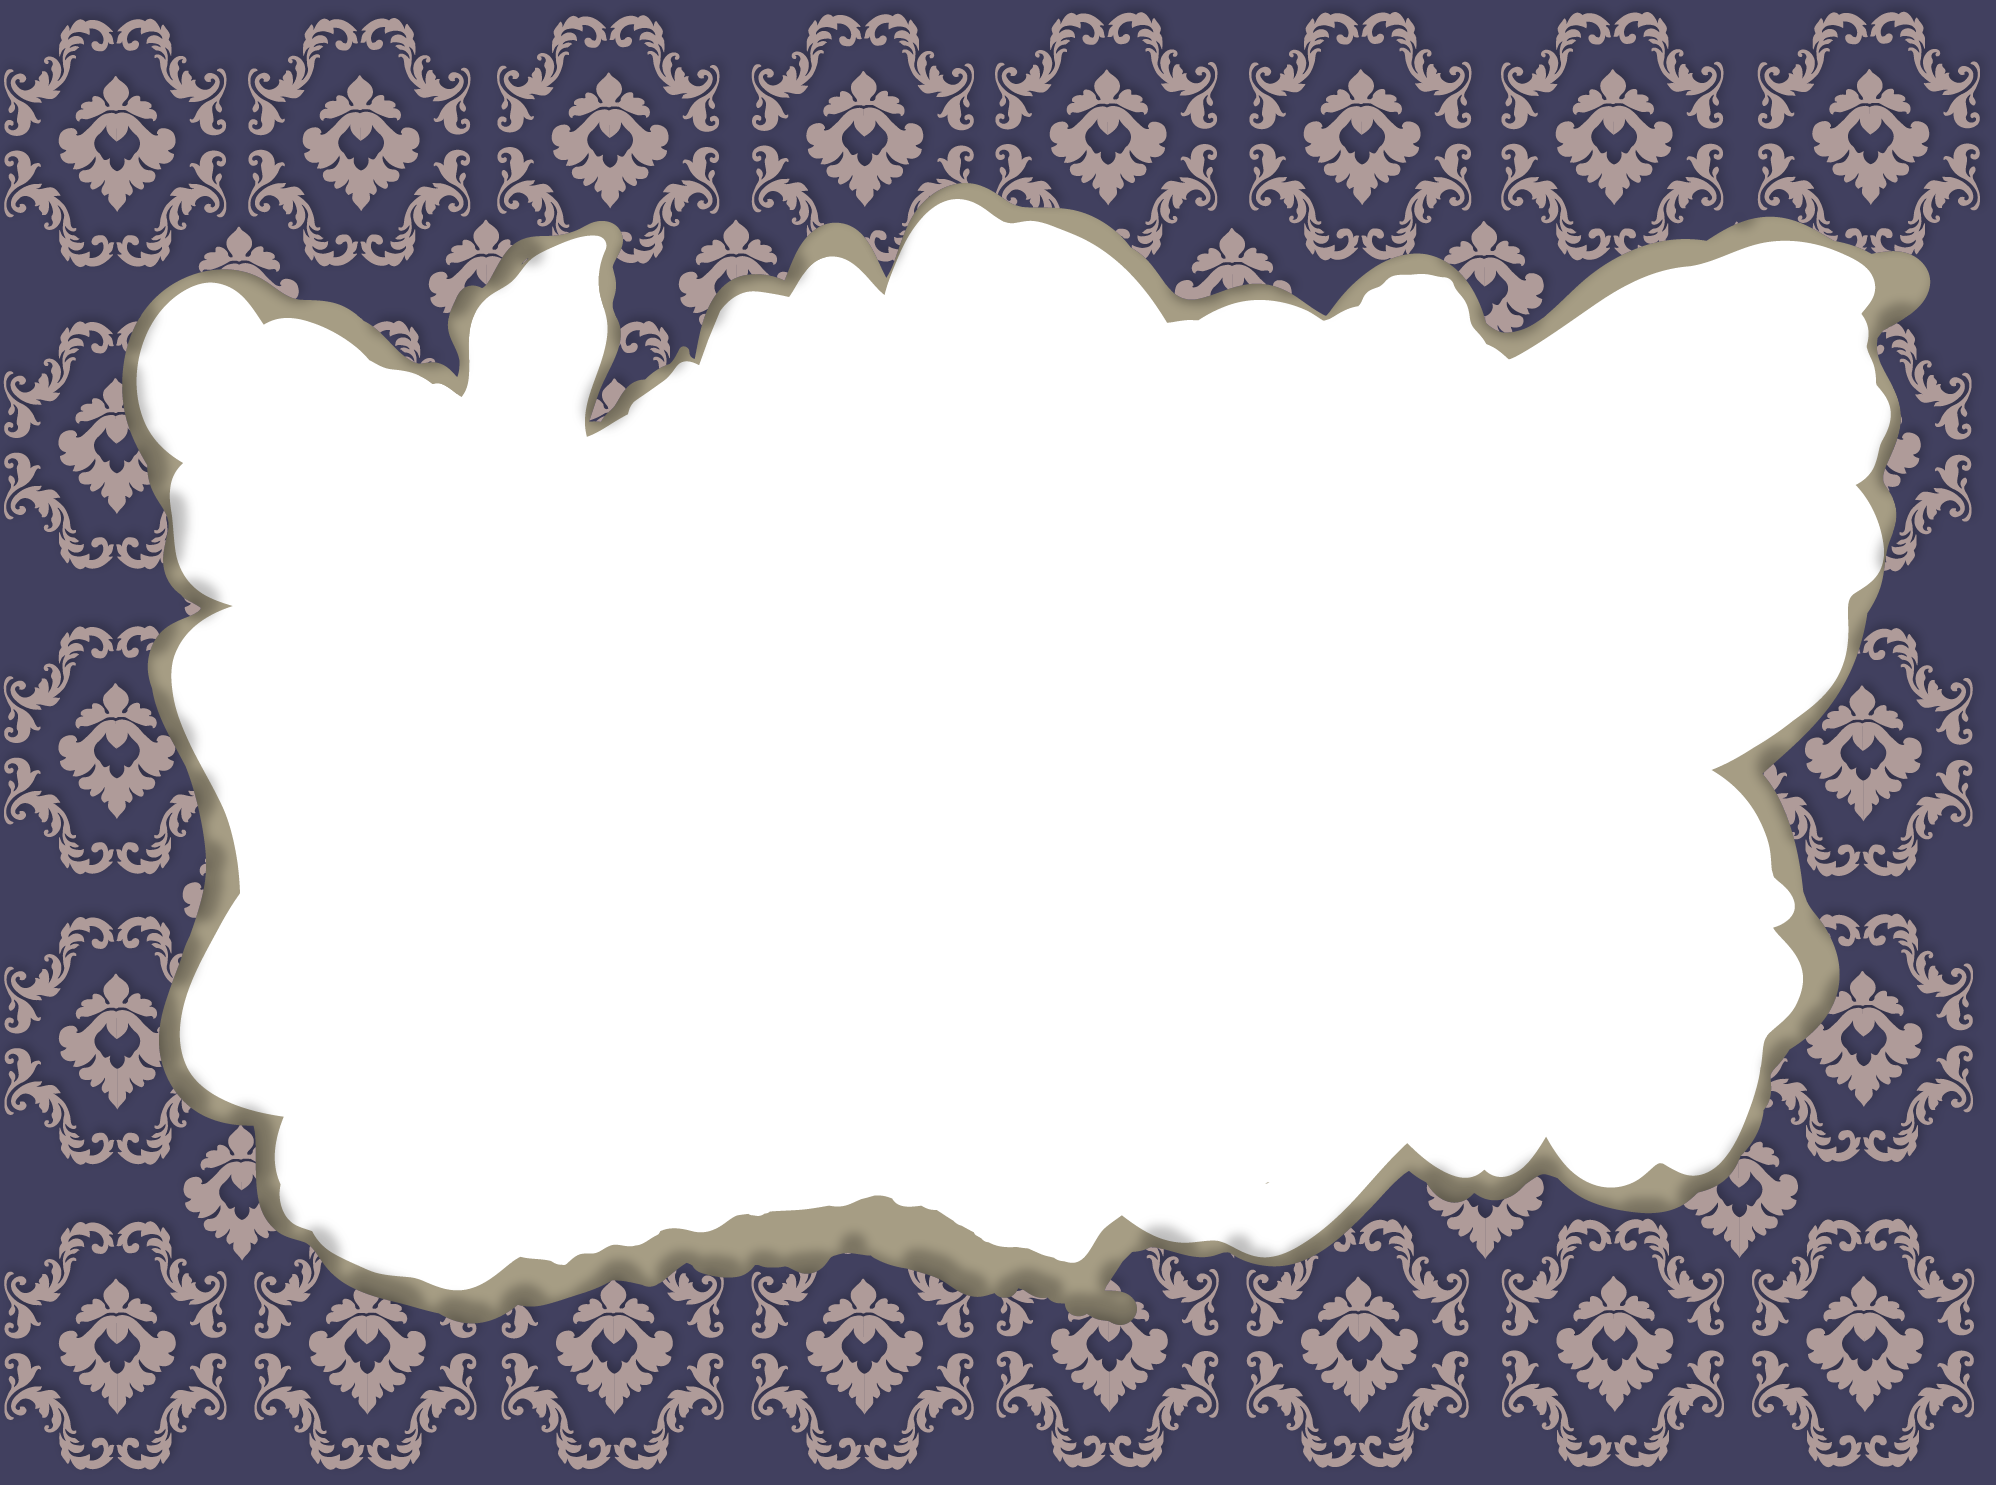
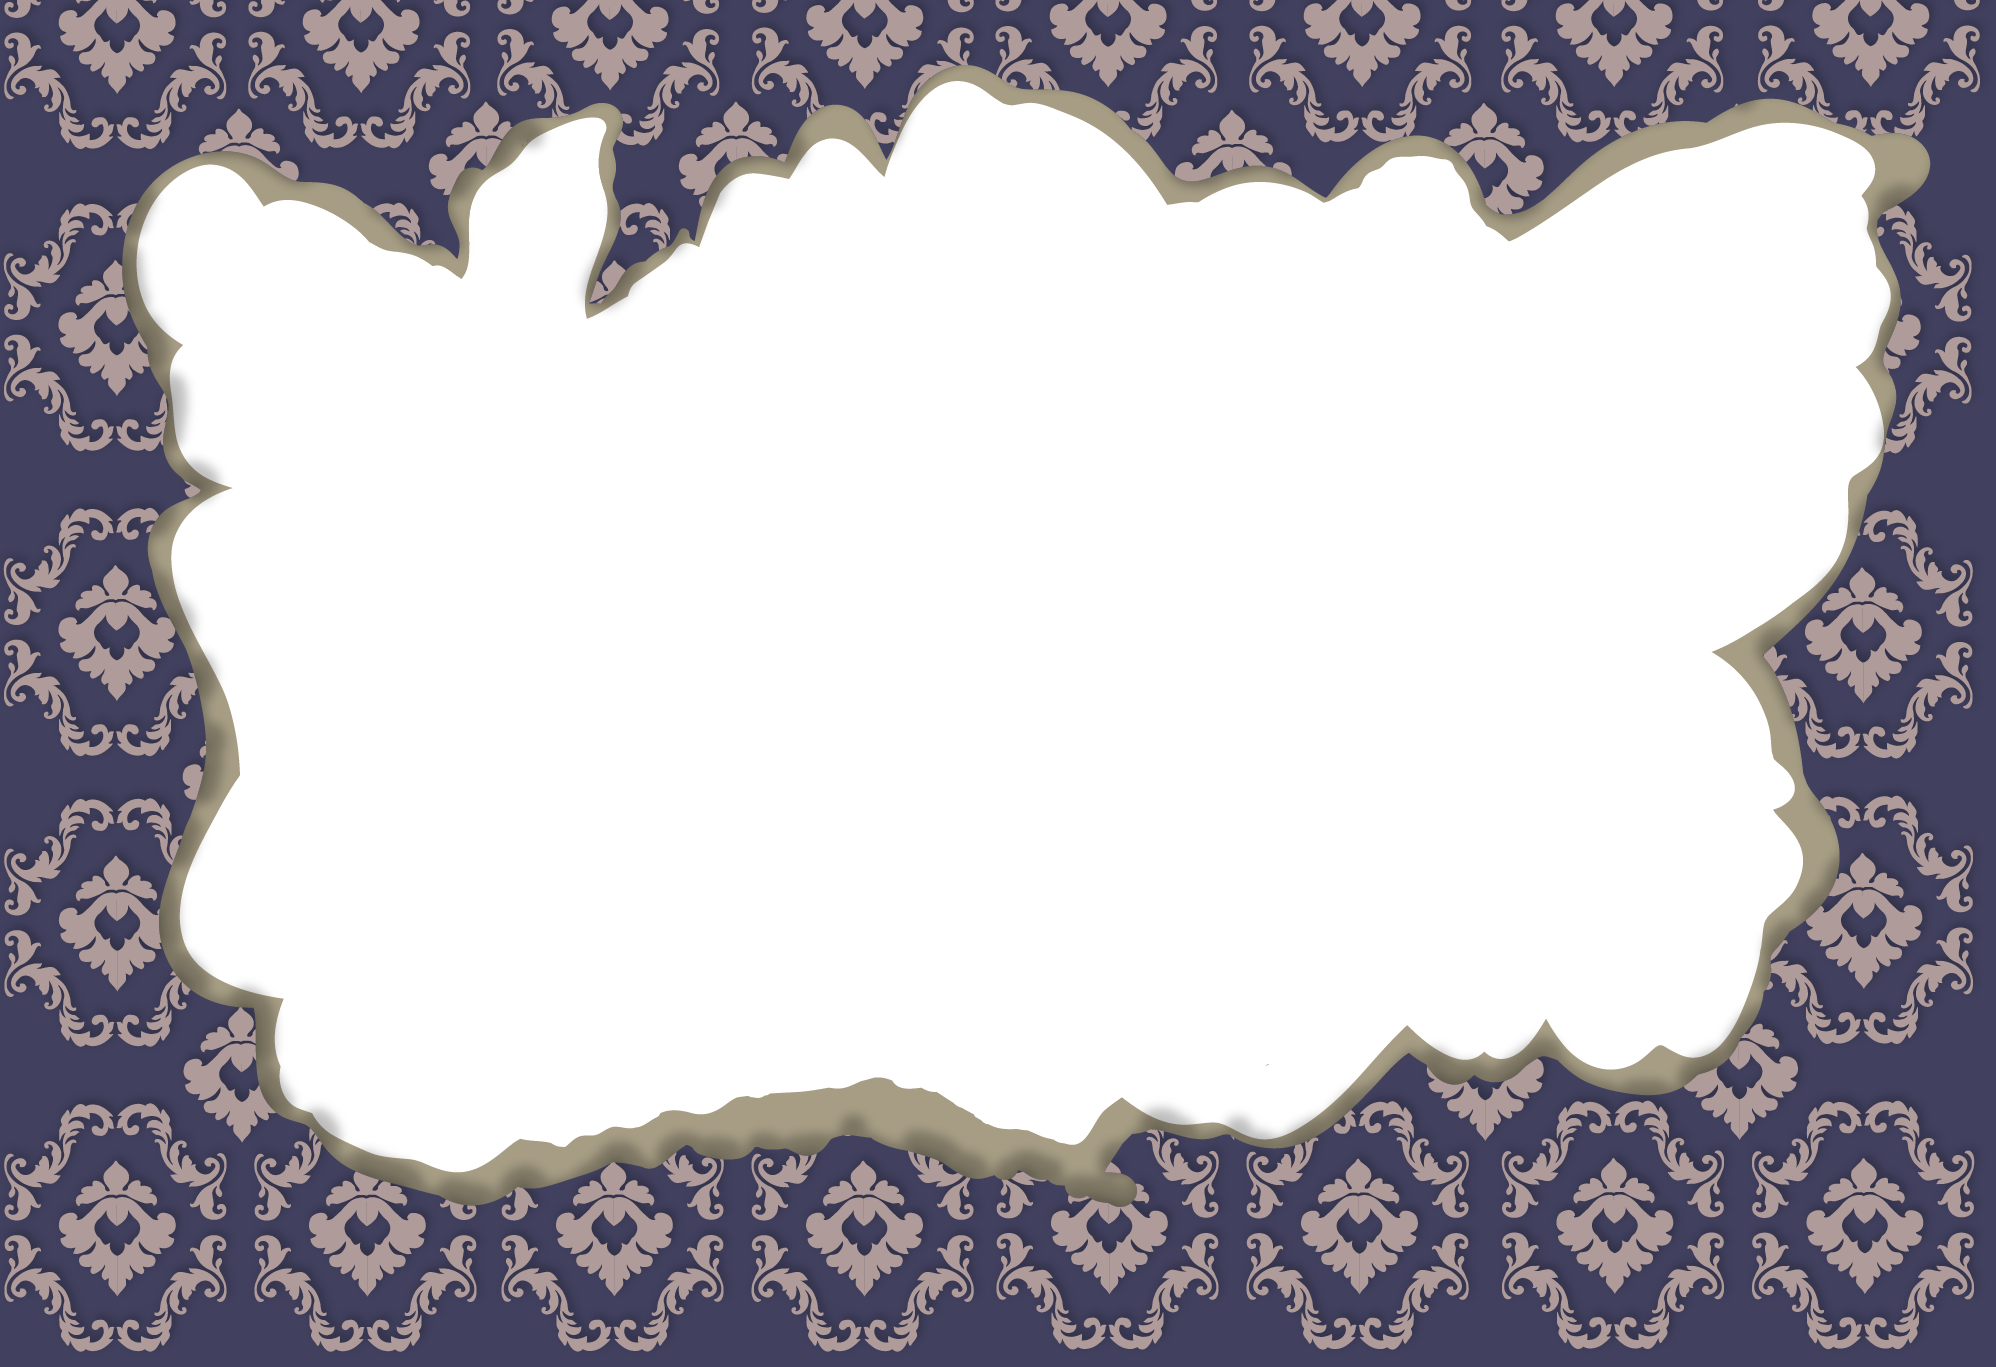
Quiz

Changed region(s): [[0.0, 0.0, 0.994, 0.9832]]

diff --git a/src/styles/style.css b/src/styles/style.css
@@ -1,16 +1,67 @@
+:root {
+  /*Farver*/
+  --one: #faf0e6;
+  --two: #252525;
+  --three: linear-gradient(to bottom, #462523 0, #cb9b51 22%, #f6e27a 45%, #f6f2c0 50%, #f6e27a 55%, #cb9b51 78%, #462523 100%);
+  --four: rgba(60, 60, 60, 1);
+  --five: rgba(239, 151, 134, 1);
+
+  --font-size-h1: 2.5rem;
+  --font-size-h2: 2rem;
+  --font-size-h3: 1.5rem;
+  --font-size-base: 1.2rem;
+}
+
 * {
-  box-sizing: border-box;
   margin: 0px;
   padding: 0px;
+  box-sizing: border-box;
+  scroll-behavior: smooth;
+}
+
+body {
+  height: 100%;
+  width: 100%;
+  line-height: 1.8;
+  color: var(--two);
+  font-family: "open-sans", sans-serif;
+  font-weight: 400;
+  font-style: normal;
+
+  background-image: url(/public/img/wallpaper.png);
+  background-size: contain;
+}
+
+img {
+  max-width: 100%;
+  height: auto;
+  display: block;
 }
 
 main {
   margin-inline: auto;
 }
 
-body {
-  background-image: url(/public/img/wallpaper.png);
-  height: 900px;
-  background-position: center;
-  background-size: cover;
+h1 {
+  font-size: var(--font-size-h1);
+  font-family: "Dosis", sans-serif;
+}
+
+h2 {
+  font-size: var(--font-size-h2);
+}
+
+h3 {
+  font-size: var(--font-size-h3);
+}
+
+p {
+  font-size: var(--font-size-base);
+}
+
+a {
+  text-decoration: none;
+  text-transform: uppercase;
+  color: var(--four);
+  font-size: 0.8rem;
 }
